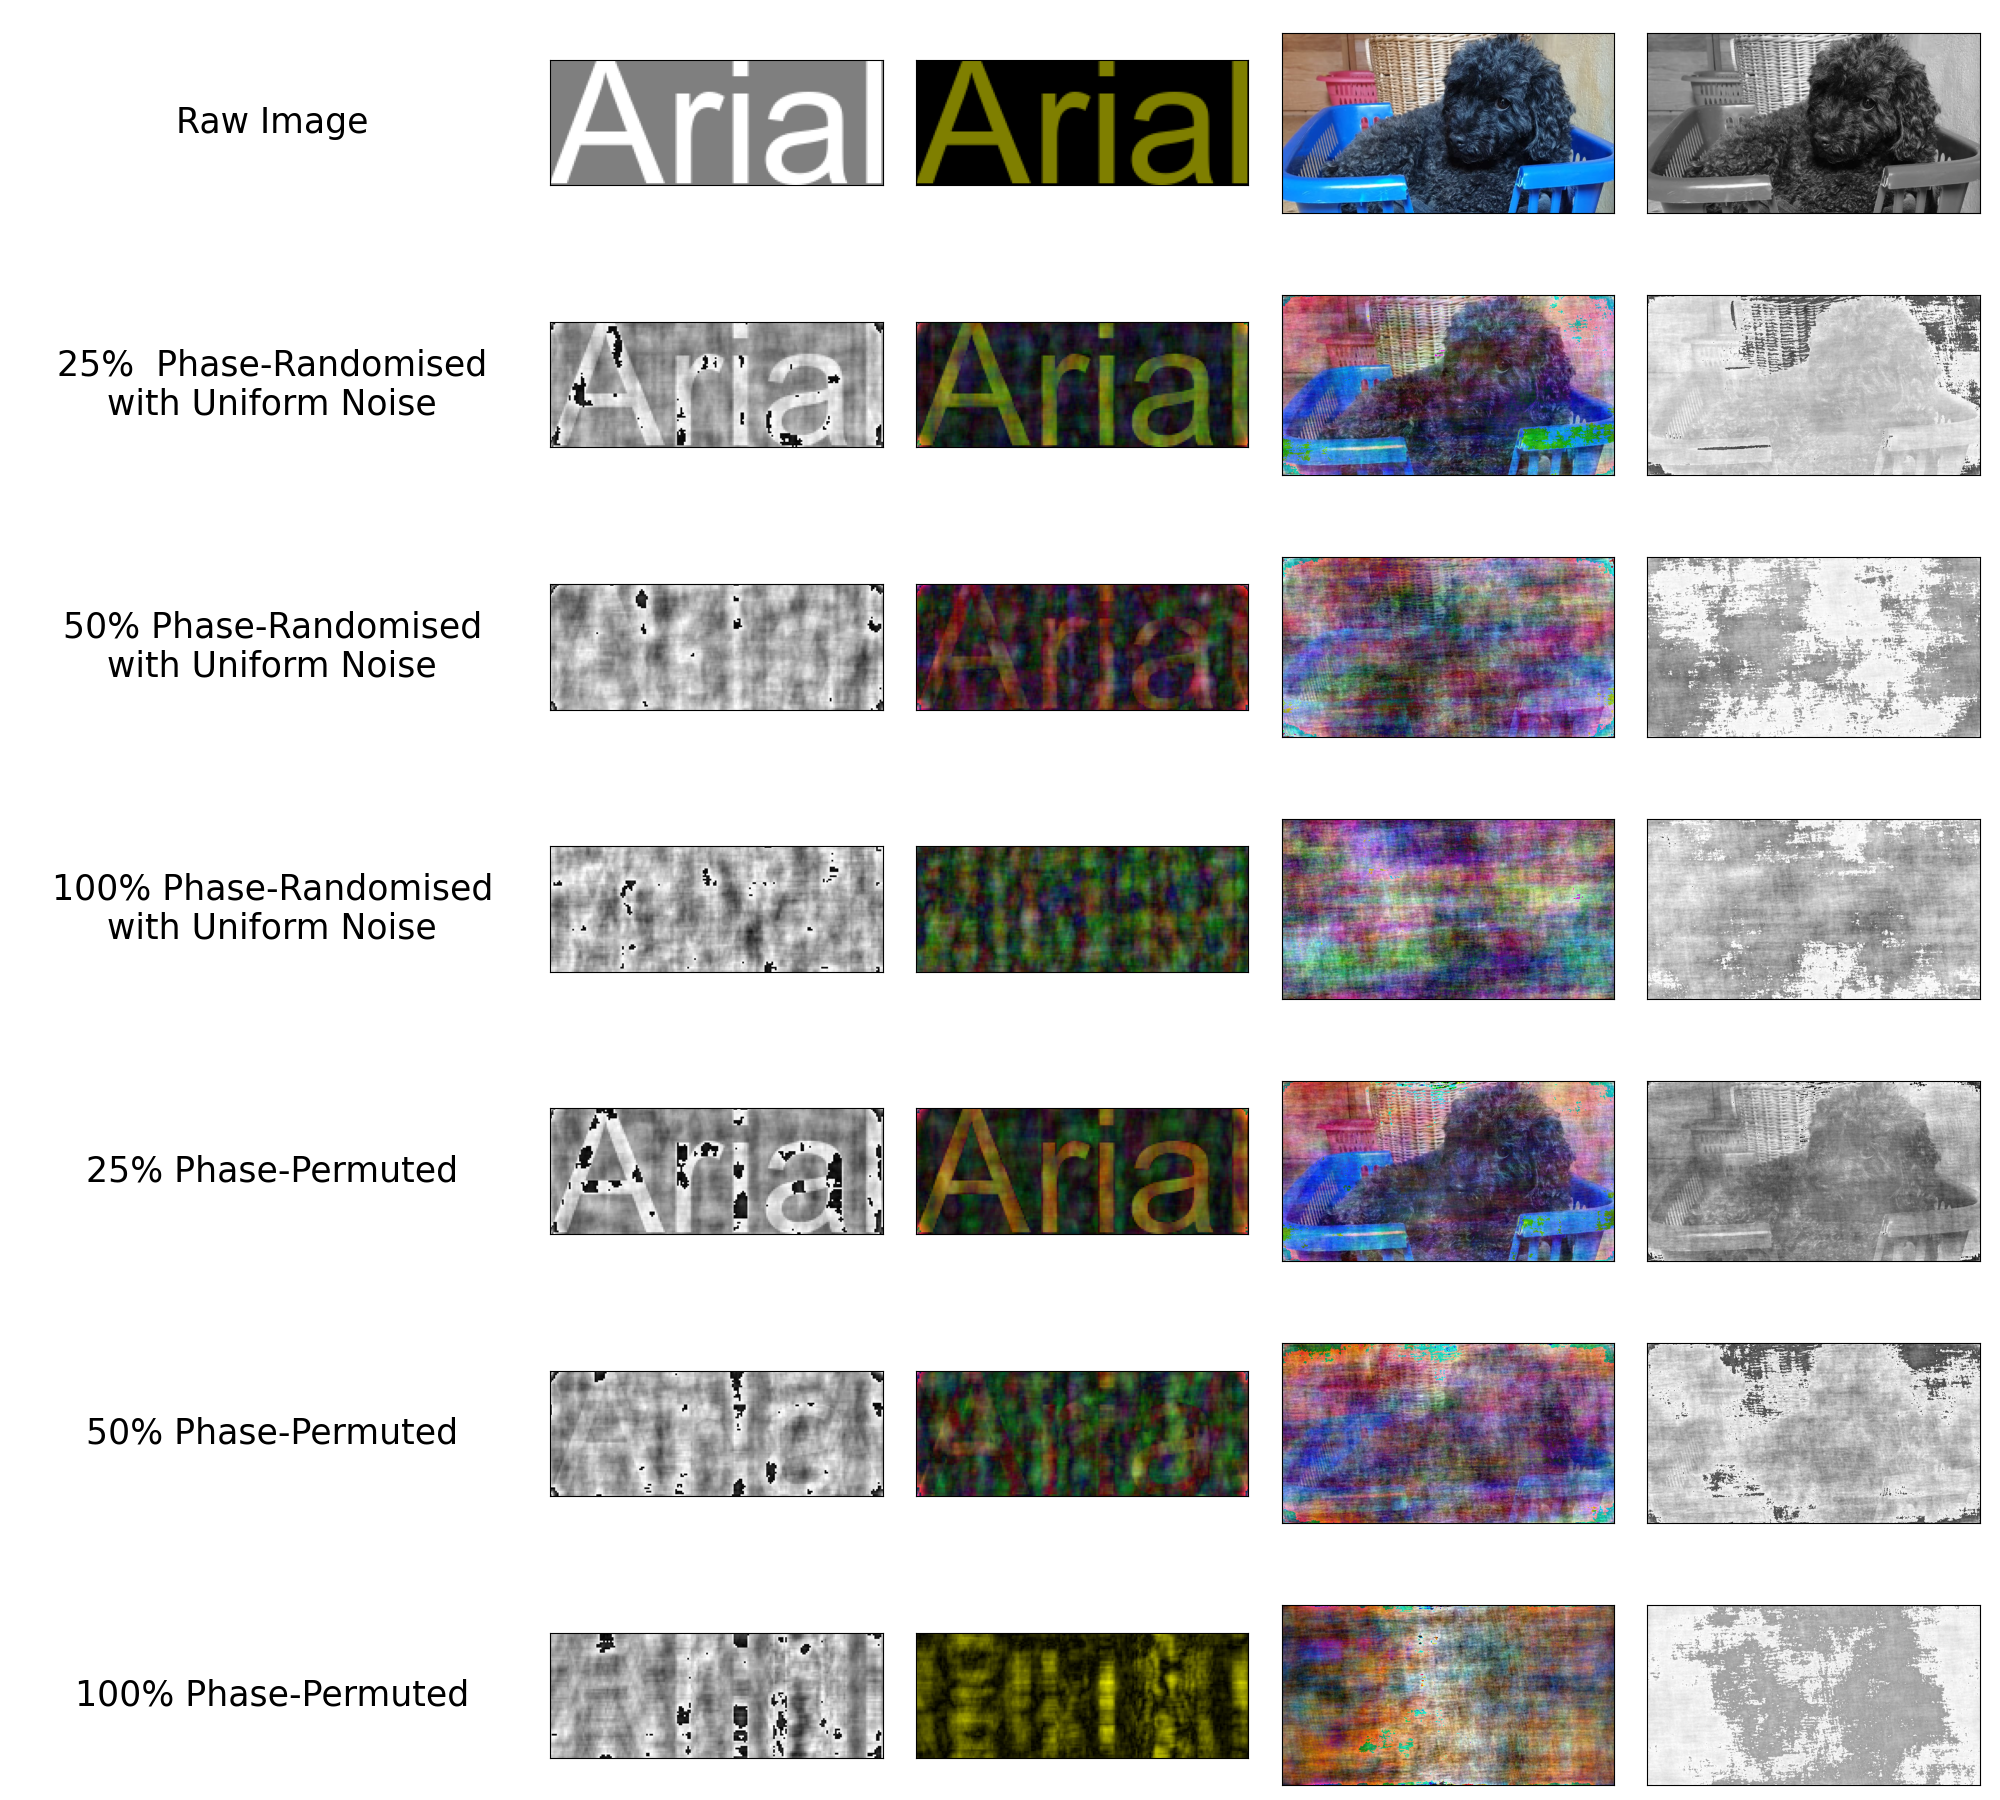
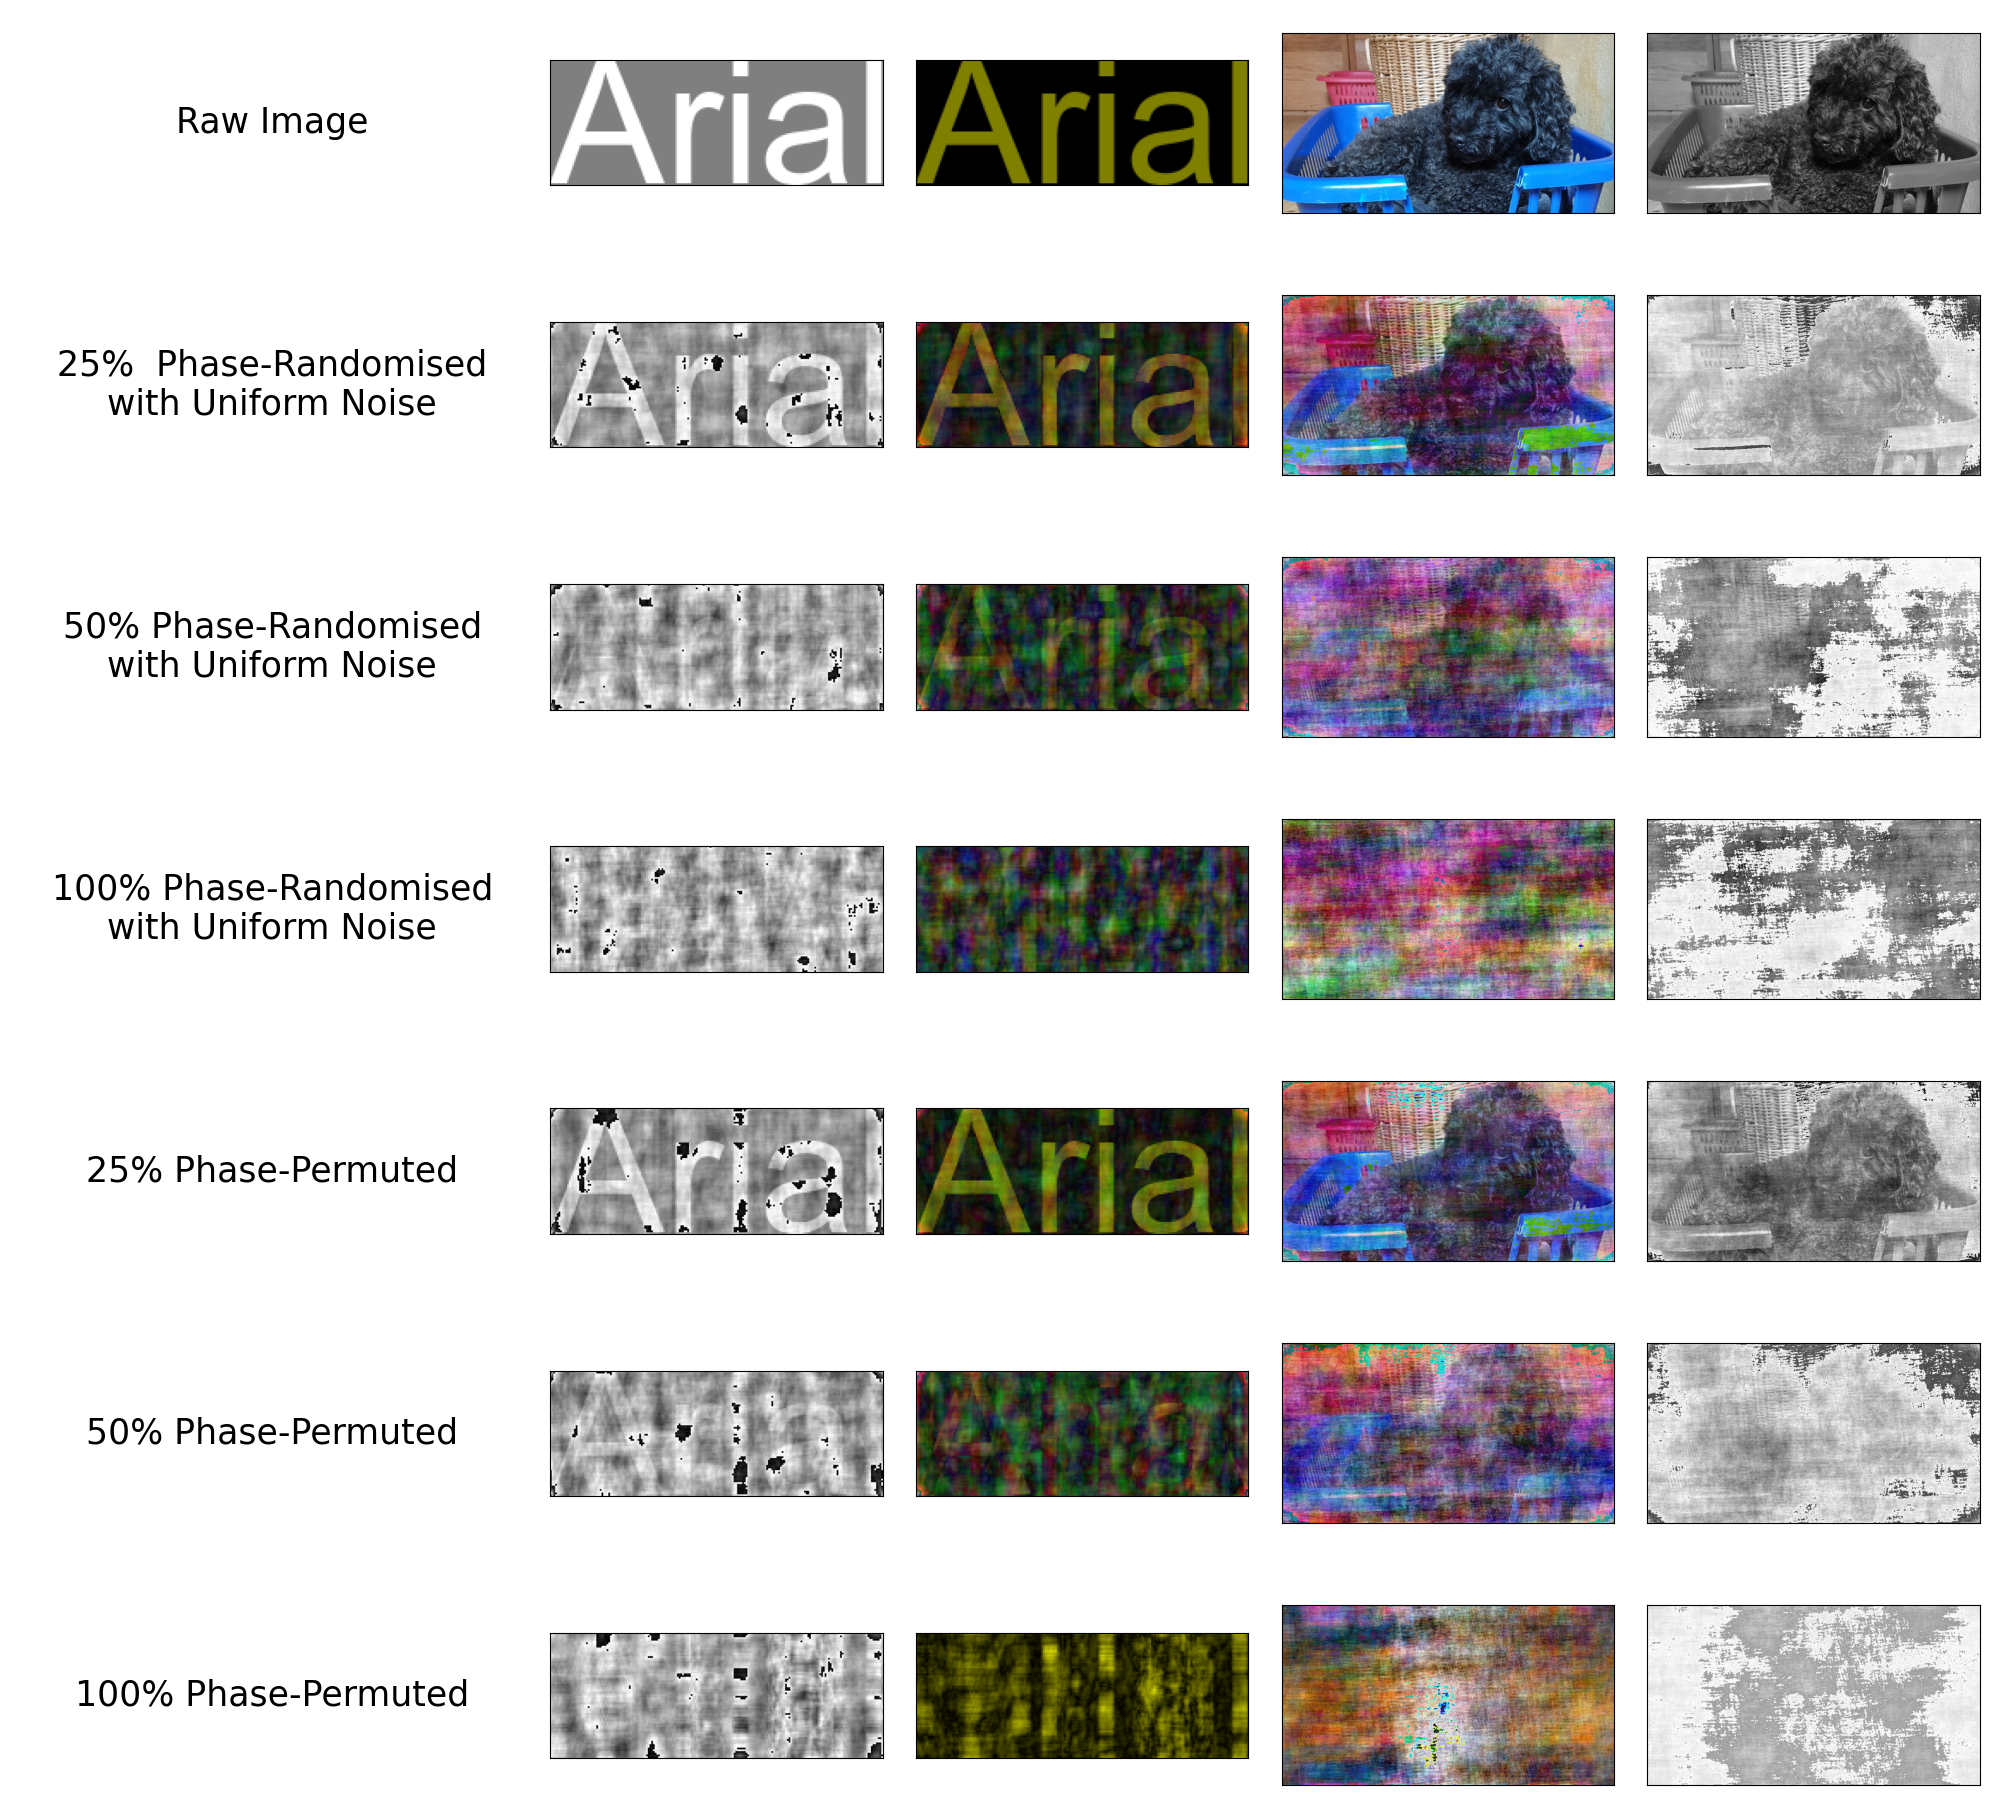
typo

diff --git a/examples.py b/examples.py
@@ -11,13 +11,13 @@ im = draw.text('erudition', size=50, font='courbd.ttf')
 im.save(op.join('img', 'im.png'))
 rp_im = phase.randomise(im, noise='uniform')
 rp_im.save(op.join('img', 'rp_im.png'))
-pp_im = phase.randomise(im, noise='uniform')
+pp_im = phase.randomise(im, noise='permute')
 pp_im.save(op.join('img', 'pp_im.png'))
 
 # simple examples with contrast adjustment
 rp_im_adj = phase.randomise(im, noise='uniform', contrast_adj=0.5)
 rp_im_adj.save(op.join('img', 'rp_im_adj.png'))
-pp_im_adj = phase.randomise(im, noise='uniform', contrast_adj=0.5)
+pp_im_adj = phase.randomise(im, noise='permute', contrast_adj=0.5)
 pp_im_adj.save(op.join('img', 'pp_im_adj.png'))
 
 # compare cropping
